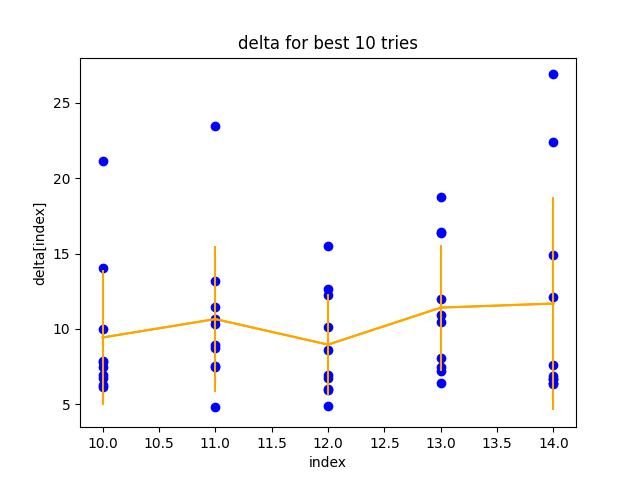
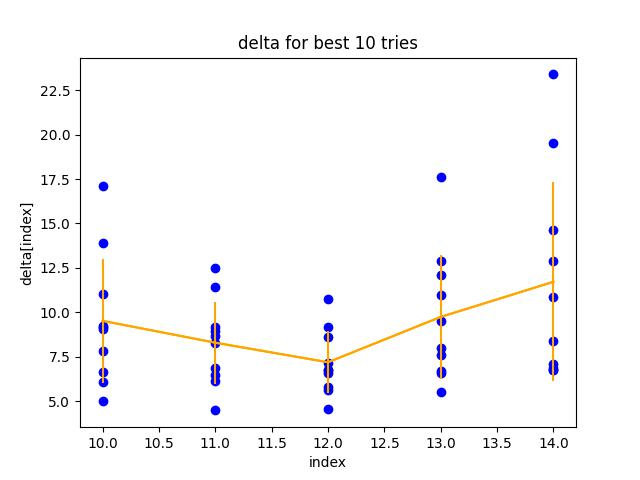
Added some results and better analysis code

diff --git a/run_cluster_BPS_hybrid.py b/run_cluster_BPS_hybrid.py
@@ -46,13 +46,13 @@ if __name__ == '__main__':
     g_index = np.argwhere(gs==g)[0]
     integral_mode = 2
     
-    res_path = 'results_BPS_deltaunk_3fix'
-    res_path_steps = 'results_BPS_deltaunk_3fix_steps'
-    if not os.path.exists(os.path.join('/data/trenta', res_path)):
-        os.makedirs(os.path.join('/data/trenta', res_path))
+    res_path = '/data/trenta/results_BPS_deltaunk_3fix'
+    res_path_steps = '/data/trenta/results_BPS_deltaunk_3fix_steps'
+    if not os.path.exists(res_path):
+        os.makedirs(res_path)
         
-    if not os.path.exists(os.path.join('/data/trenta', res_path_steps)):
-        os.makedirs(os.path.join('/data/trenta', res_path_steps))
+    if not os.path.exists(res_path_steps):
+        os.makedirs(res_path_steps)
     
     ray.init(address='172.16.18.254:6379', _node_ip_address="172.16.18.254")
     print("Connected to Ray cluster.")
@@ -146,8 +146,8 @@ if __name__ == '__main__':
         array_index = i
 
         # form the file_name where the code output is saved to
-        file_name = os.path.join('/data/trenta', res_path, params.filename_stem + str(array_index) + '.csv')
-        file_name_steps = os.path.join('/data/trenta', res_path_steps, params.filename_stem + str(array_index) + '_steps.csv')
+        file_name = os.path.join(res_path, params.filename_stem + str(array_index) + '.csv')
+        file_name_steps = os.path.join(res_path_steps, params.filename_stem + str(array_index) + '_steps.csv')
         output = str(array_index)
         utils.output_to_file(file_name=file_name, output=output)
         # determine initial starting point in the form needed for the soft_actor_critic function

diff --git a/run_cluster_BPS.py b/run_cluster_BPS.py
@@ -42,10 +42,18 @@ if __name__ == '__main__':
     gs = np.concatenate((np.arange(start=0.01, stop=0.25, step=0.01), np.arange(start=0.25, stop=4.05, step=0.05)))
     gs = np.around(gs, decimals=2)
     
-    g = 1.
+    g = 0.5
     g_index = np.argwhere(gs==g)[0]
     integral_mode = 2
+    res_path = '/data/trenta/results_BPS_3fix_g05'
+    res_path_steps = '/data/trenta/results_BPS_3fix_g05_steps'
+    if not os.path.exists(res_path):
+        os.makedirs(res_path)
+        
+    if not os.path.exists(res_path_steps):
+        os.makedirs(res_path_steps)
     
+        
     
     ray.init(address='172.16.18.254:6379', _node_ip_address="172.16.18.254")
     print("Connected to Ray cluster.")
@@ -136,8 +144,8 @@ if __name__ == '__main__':
         array_index = i
 
         # form the file_name where the code output is saved to
-        file_name = os.path.join('results_BPS_3fix', params.filename_stem + str(array_index) + '.csv')
-        file_name_steps = os.path.join('results_BPS_3fix', params.filename_stem + str(array_index) + '_steps.csv')
+        file_name = os.path.join(res_path, params.filename_stem + str(array_index) + '.csv')
+        file_name_steps = os.path.join(res_path_steps, params.filename_stem + str(array_index) + '_steps.csv')
         output = str(array_index)
         utils.output_to_file(file_name=file_name, output=output)
         # determine initial starting point in the form needed for the soft_actor_critic function

diff --git a/analyze_BPS_OPEs.py b/analyze_BPS_OPEs.py
@@ -14,18 +14,21 @@ gs = np.concatenate((np.arange(start=0.01, stop=0.25, step=0.01),
                      #np.arange(start=4.25, stop=5.25, step=0.25)
                      ))
 gs = np.around(gs, decimals=2)
-g = 1.
+g = 0.5
 g_index = np.argwhere(gs==g)[0]
 
-path = join('.', 'results_BPS_3fix')
-save_path = join('.', 'BPS_3fix_analyzed')
+path = join('/data/trenta', 'results_BPS_3fix_g05')
+save_path = join('.', 'BPS_analyzed_g05')
+prefix = 'g05'
 onlyfiles = [f for f in listdir(path) if isfile(join(path, f))]
 r = re.compile('sac[0-9]+.csv')
 onlyfiles = list(filter(r.match, onlyfiles))
+
+#onlyfiles = onlyfiles[:400]
+
 n_files = len(onlyfiles)
 #print(onlyfiles)
 best_reward = 0.
-
 delta_len = 10
 lambda_len = 10
 
@@ -59,13 +62,15 @@ orderer = np.argsort(rewards)
 
 OPEs_ordered = OPEs[orderer]
 
-best_rew_to_take = 10
+best_rew_to_take = 25
+
 
 vals = OPEs_ordered[-best_rew_to_take:]
 OPE_means = np.mean(vals, axis=0)
 OPE_stds = np.std(vals, axis=0)
 print(OPE_means)
 print(OPE_stds)
+print(100*OPE_stds/OPE_means)
 
 plt.figure()
 for i in range(lambda_fix+1, lambda_len+1):
@@ -75,4 +80,4 @@ plt.errorbar(range(lambda_fix+1, lambda_len+1), OPE_means, yerr=OPE_stds, color=
 plt.xlabel('index')
 plt.ylabel('OPE[index]')
 plt.title(f'OPE coefficients for best {best_rew_to_take} tries')
-plt.savefig(f'OPE4_10_{best_rew_to_take}.jpg')
+plt.savefig(f'{prefix}_OPE4_10_{best_rew_to_take}.jpg')

diff --git a/analyze_BPS_hybrid.py b/analyze_BPS_hybrid.py
@@ -62,7 +62,7 @@ orderer = np.argsort(rewards)
 OPEs_ordered = OPEs[orderer]
 deltas_ordered = deltas[orderer]
 
-best_rew_to_take = 10
+best_rew_to_take = 25
 
 vals = OPEs_ordered[-best_rew_to_take:]
 OPE_means = np.mean(vals, axis=0)
